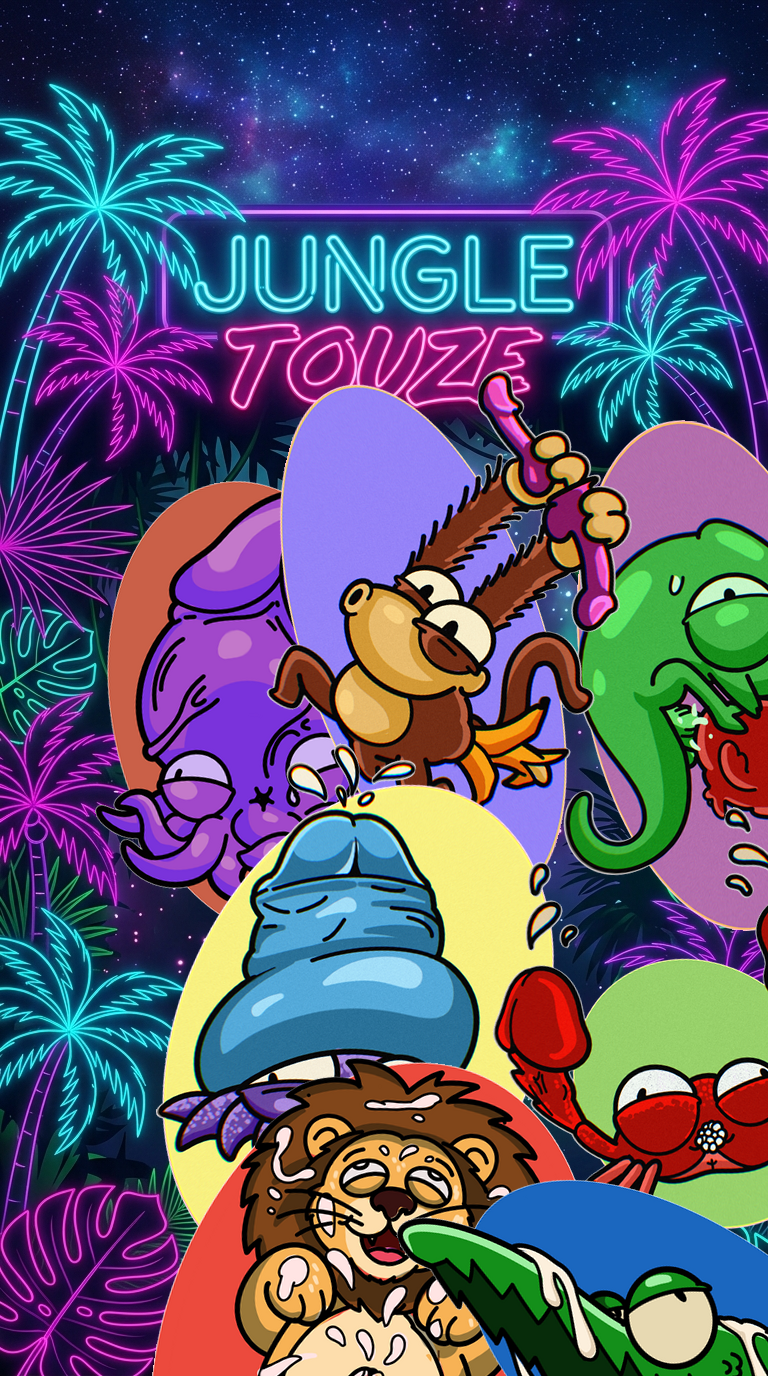
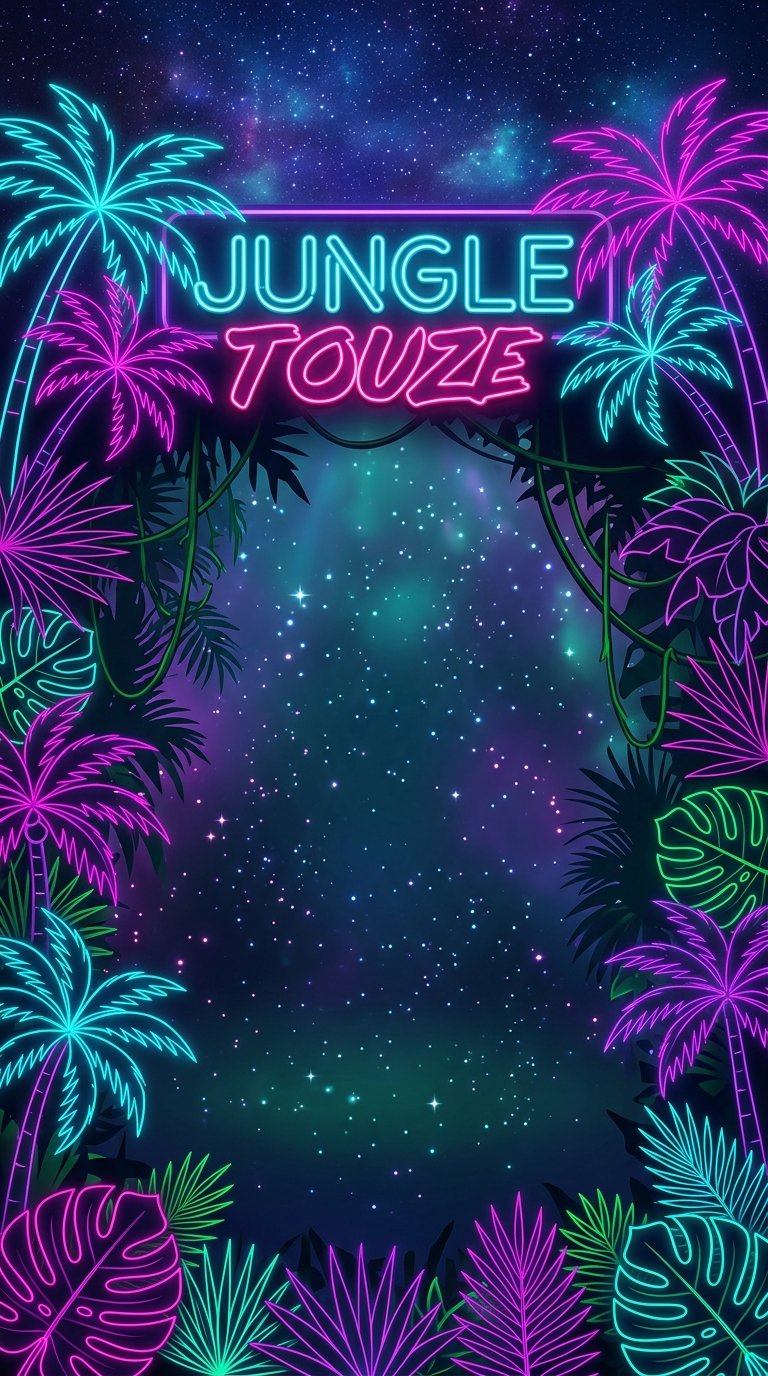
feat(ui): clean neon jungle background with centered floating action card

diff --git a/style.css b/style.css
@@ -172,10 +172,10 @@ input[type="text"]:focus {
 
 /* --- Home Screen --- */
 #screen-home {
-    justify-content: space-between;
+    justify-content: center;
     align-items: center;
     text-align: center;
-    padding: 16px 14px max(16px, env(safe-area-inset-bottom));
+    padding: 24px 16px;
     position: relative;
     overflow: hidden;
     height: 100dvh;
@@ -184,39 +184,24 @@ input[type="text"]:focus {
 }
 
 .logo-container {
-    margin-top: 4px;
-    margin-bottom: 0;
-    z-index: 2;
+    display: none; /* Le logo néon JUNGLE TOUZE est déjà intégré en haut du fond */
 }
 
-/* Logo : PNG transparent compact */
-.home-logo-img {
-    max-width: 100%;
-    width: clamp(200px, 62vw, 320px);
-    height: auto;
-    display: block;
-    margin: 0 auto;
-    filter: drop-shadow(0 0 16px rgba(0, 229, 255, 0.45))
-            drop-shadow(0 0 8px rgba(255, 51, 102, 0.35));
-    animation: floatLogo 5s ease-in-out infinite;
-}
-
-/* Menu Actions : Barre d'action positionnée tout en bas sous les fesses du crocodile */
+/* Menu Actions : Bulle flottante en verre dépoli au milieu */
 .menu-actions {
-    margin-top: auto;
-    margin-bottom: 2px;
+    margin: auto 0;
     width: 100%;
     max-width: 440px;
     display: flex;
     flex-direction: column;
-    gap: 8px;
-    background: rgba(14, 8, 28, 0.85);
-    border: 1.5px solid rgba(255, 255, 255, 0.2);
-    border-radius: 28px;
-    padding: 10px 12px;
-    backdrop-filter: blur(20px);
-    -webkit-backdrop-filter: blur(20px);
-    box-shadow: 0 10px 30px rgba(0, 0, 0, 0.8), 0 0 20px rgba(0, 229, 255, 0.2);
+    gap: 12px;
+    background: rgba(14, 8, 28, 0.78);
+    border: 1.5px solid rgba(0, 229, 255, 0.35);
+    border-radius: 32px;
+    padding: 24px 20px;
+    backdrop-filter: blur(24px);
+    -webkit-backdrop-filter: blur(24px);
+    box-shadow: 0 16px 40px rgba(0, 0, 0, 0.8), 0 0 30px rgba(0, 229, 255, 0.25), inset 0 0 15px rgba(255, 51, 102, 0.15);
     z-index: 10;
 }
 

diff --git a/index.html b/index.html
@@ -17,7 +17,7 @@
     <link rel="preconnect" href="https://fonts.gstatic.com" crossorigin>
     <link href="https://fonts.googleapis.com/css2?family=Outfit:wght@400;700;900&display=swap" rel="stylesheet">
     
-    <link rel="stylesheet" href="style.css?v=246">
+    <link rel="stylesheet" href="style.css?v=247">
 </head>
 <body>
     <div id="app-container">
@@ -39,7 +39,7 @@
                     <button class="btn btn-secondary btn-action-compact" onclick="ui.showScreen('screen-join')">Rejoindre</button>
                 </div>
                 <button id="btn-install-app" class="btn btn-rules-embedded" style="display:none;" onclick="ui.installPWA()">📲 Installer</button>
-                <button class="btn btn-rules-embedded" onclick="ui.showHelpModal()">📖 Règles du Jeu <span class="version-pill">v2.46</span></button>
+                <button class="btn btn-rules-embedded" onclick="ui.showHelpModal()">📖 Règles du Jeu <span class="version-pill">v2.47</span></button>
             </div>
         </div>
 
